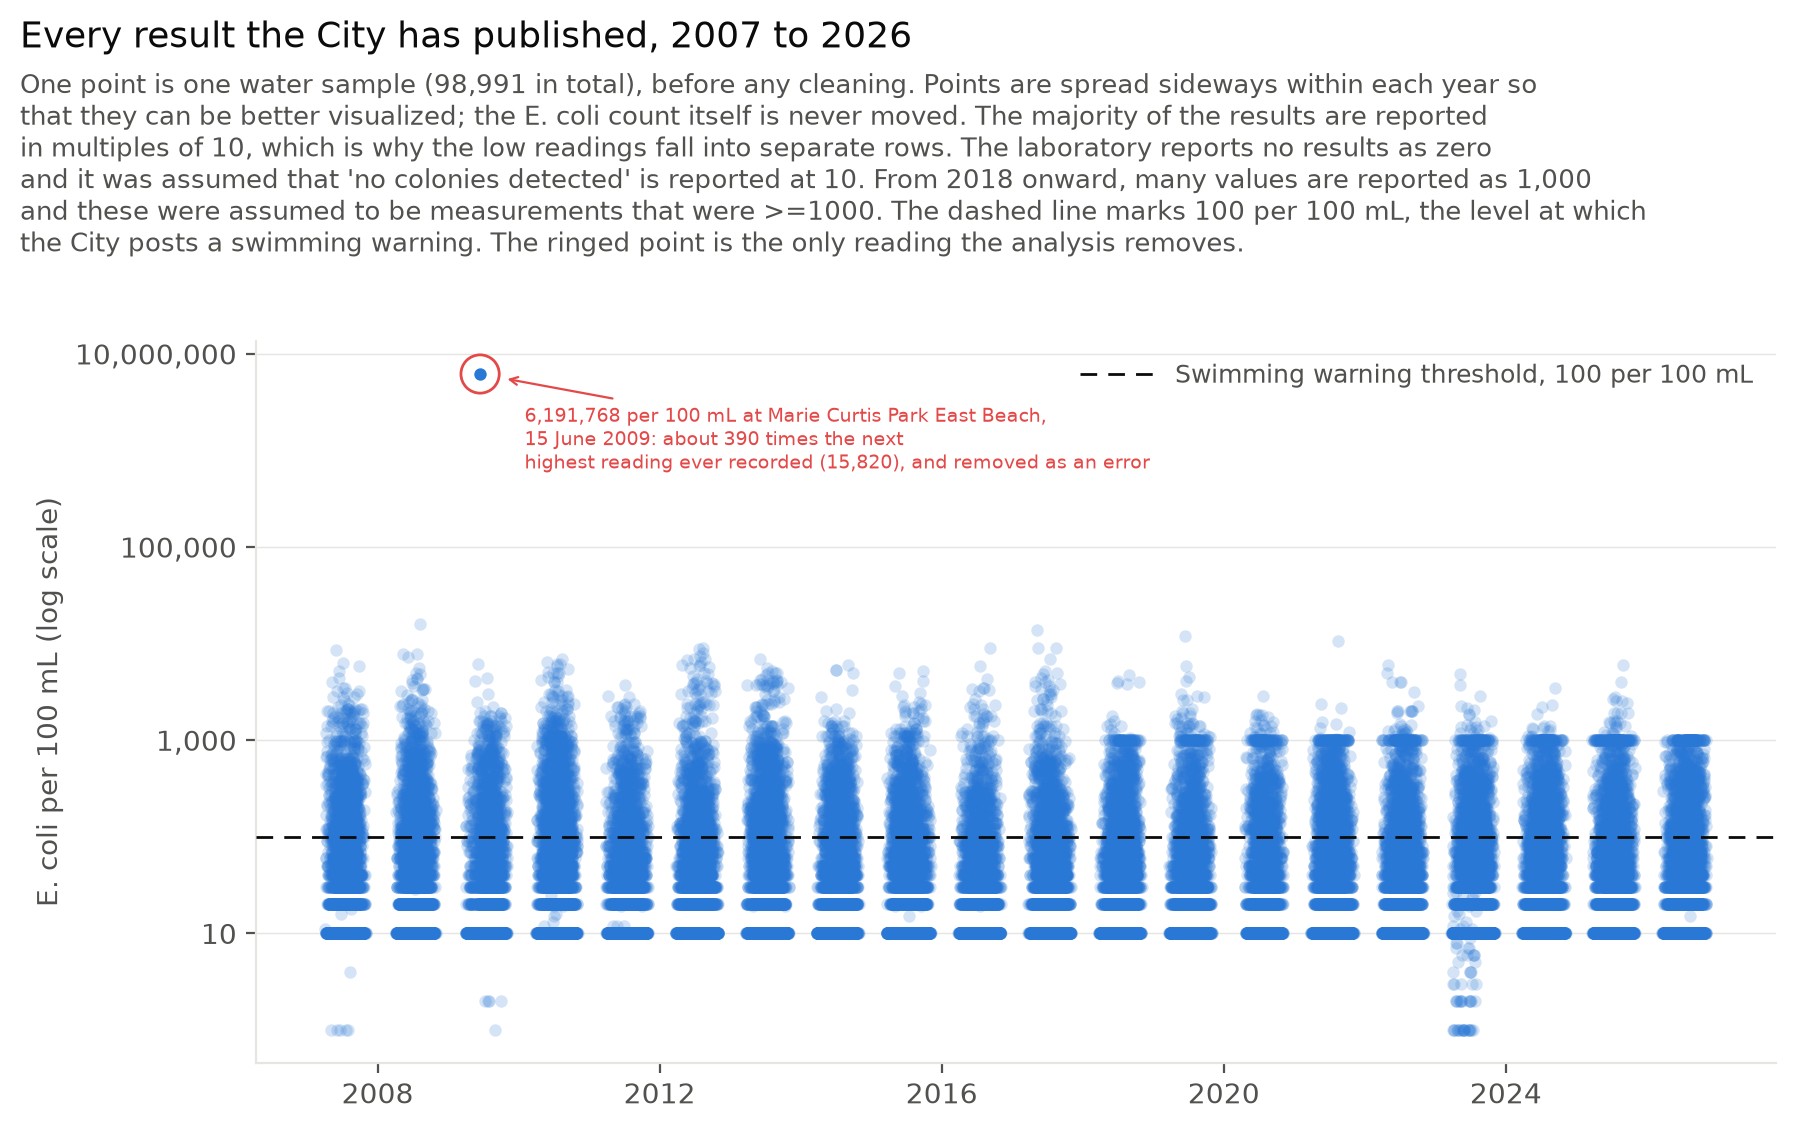
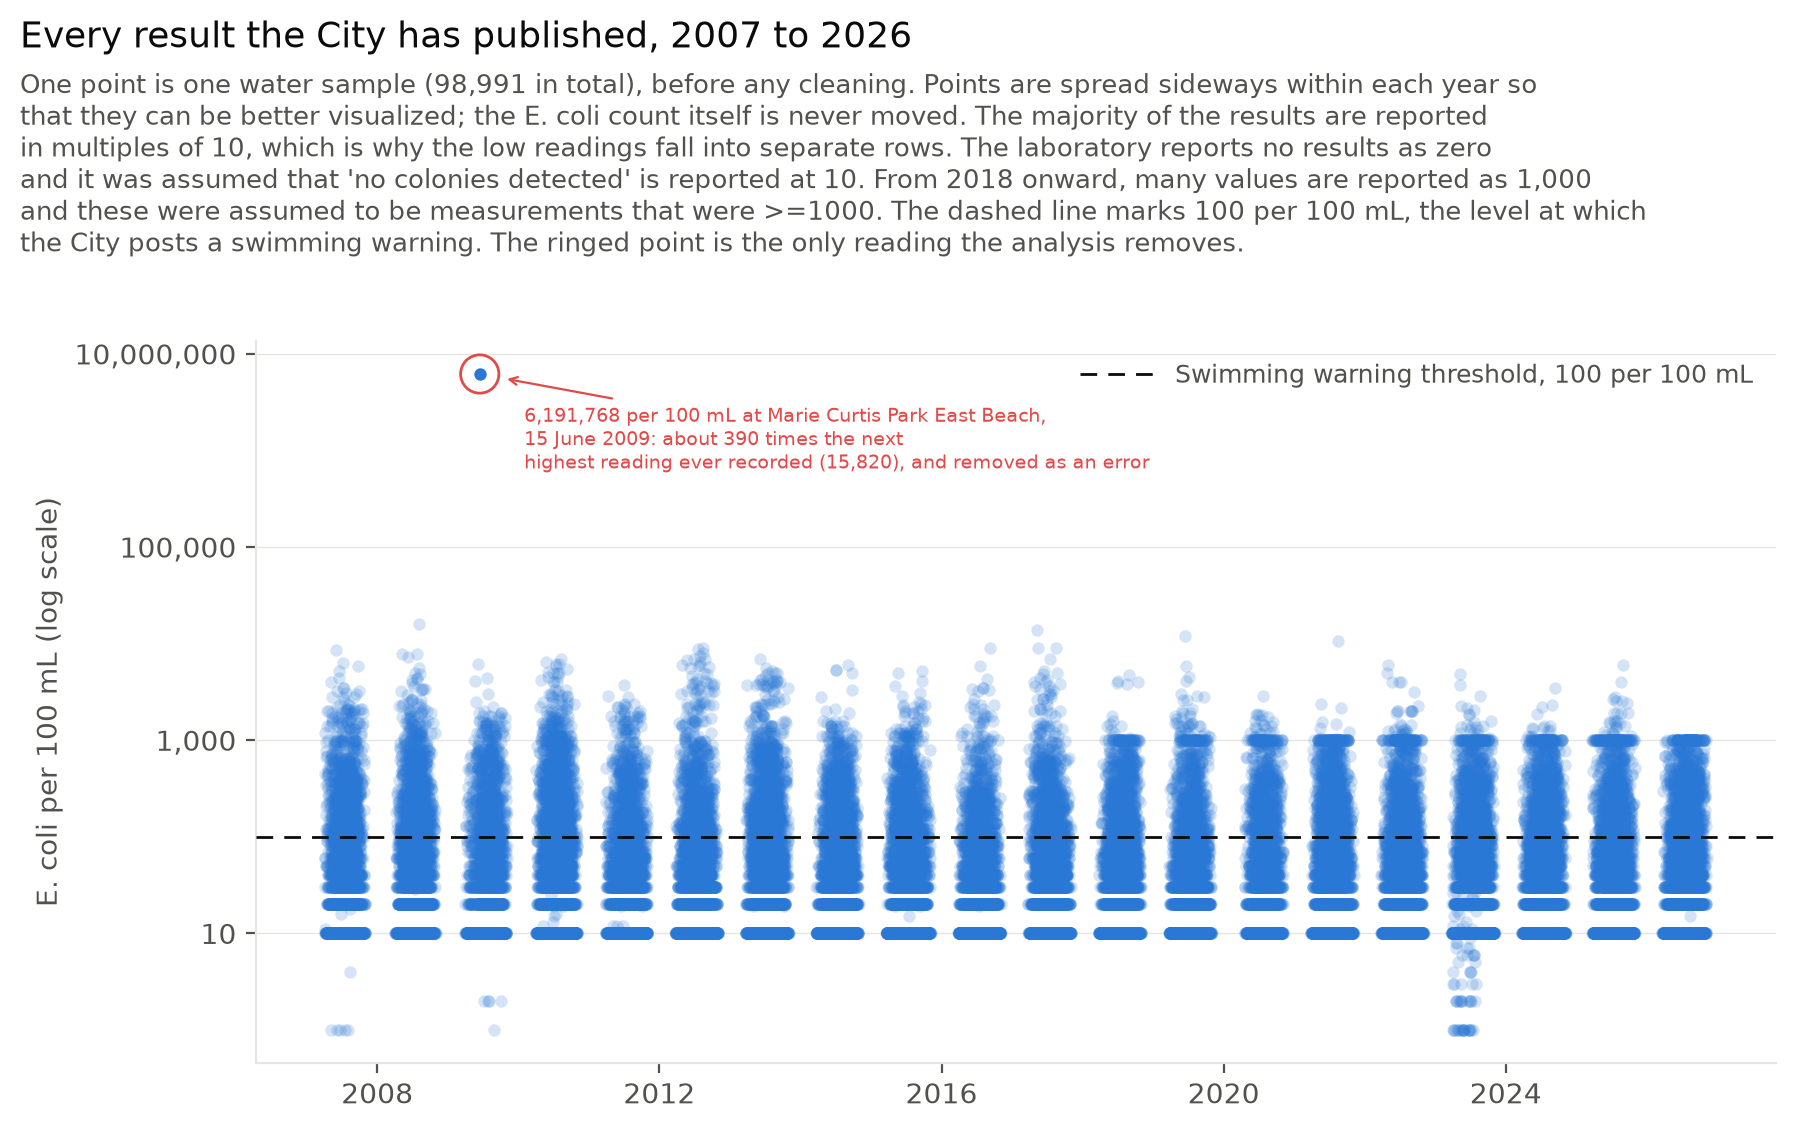
Point figures at the cleaned data and add the beach-day figure
The summary histogram now reads the analysis data rather than repeating
cleaning's exclusions. Adds a figure of every beach-day geometric mean,
the unit the limit applies to, with the axis trimmed to the reporting
floor and minor ticks so the discrete means are placeable.

Changed region(s): [[0.3432, 0.3717, 0.4368, 0.4336], [0.0936, 0.4646, 0.1248, 0.4956]]

diff --git a/scripts/05-exploratory_data_analysis.py b/scripts/05-exploratory_data_analysis.py
@@ -1,14 +1,14 @@
 #### Preamble ####
-# Purpose: Draws the two figures that show the whole dataset: every published
-# result over time, including the one that cleaning removes, and how high the
-# results get at each beach.
+# Purpose: Draws the three figures that show the whole dataset: every published
+# result over time, including the one that cleaning removes; how high the results
+# get at each beach; and every beach-day, which is the unit the analysis uses.
 # Author: Sean Murphy
 # Date: 23 September 2026
 # Contact: seandata8@gmail.com
 # License: MIT
 # Pre-requisites:
 # - `polars`, `numpy` and `matplotlib` must be installed
-# - Run `uv run scripts/02-download_data.py` first
+# - Run `uv run scripts/02-download_data.py` and `scripts/03-clean_data.py` first
 # - Run from the project root: uv run scripts/05-exploratory_data_analysis.py
 
 
@@ -24,9 +24,15 @@ import polars as pl
 from matplotlib.ticker import FixedLocator, FuncFormatter
 
 RAW_DATA_PATH = "data/01-raw_data/raw_data.csv"
+ANALYSIS_DATA_PATH = "data/02-analysis_data/analysis_data.csv"
 FIGURE_DIR = Path("other/explore/figures")
 
 WARNING_THRESHOLD = 100
+DETECTION_LIMIT = 10
+
+# The daily geometric mean needs at least four results: four, not five, so that
+# Sunnyside's four sites are included.
+MINIMUM_RESULTS = 4
 
 # Sampling is daily and results are reported in steps of ten, so points land on a
 # grid and pile up. Spreading them sideways by a few days makes the pile-ups
@@ -216,13 +222,14 @@ figure.savefig(FIGURE_DIR / "all-raw-results.png", bbox_inches="tight")
 
 
 #### Summary figure: results by order of magnitude, by beach ####
-# Every result except the one removed as an error, counted in bands of ten:
-# 1 to 10, 11 to 100, and so on. Bands rather than narrow bars because the
-# threshold sits exactly on a band edge, so the share of a beach's results above
-# 100 is the last two bars of its panel.
-# Sites 60W and GP6 are left out, as in the analysis: they cover 2026 only and sit
-# 14 to 16 km from the beaches they are listed under.
-summary_results = rest.filter(~pl.col("siteName").is_in(["60W", "GP6"]))
+# The cleaned data, so that what is drawn is exactly what the analysis uses, and
+# the exclusions live in one place rather than being repeated here.
+# Results are counted in bands of ten: 1 to 10, 11 to 100, and so on. Bands rather
+# than narrow bars because the threshold sits on a band edge, so the share of a
+# beach's results above 100 is the last two bars of its panel.
+summary_results = pl.read_csv(ANALYSIS_DATA_PATH, try_parse_dates=True).with_columns(
+    pl.col("eColi").log10().alias("logEColi")
+)
 
 # Four bands, not five: only four results in twenty years passed 10,000, so a
 # separate band for them would be an empty column in every panel.
@@ -306,10 +313,11 @@ figure.text(
     0.008,
     0.955,
     fill(
-        f"Every result the City has published ({summary_results.height:,}), with each bar"
-        " labelled by its share of that beach's results. The reading of 6,191,768 removed as an"
-        " error is left out, as are two sites added in 2026 that sit far from the beaches they"
-        " are listed under. The orange bars, right of the dashed line, are the results above 100"
+        f"Every result the analysis uses ({summary_results.height:,}), with each bar labelled by"
+        " its share of that beach's results. Cleaning leaves out the reading of 6,191,768 removed"
+        " as an error, two sites added in 2026 that sit far from the beaches they are listed"
+        " under, and dates outside the sampling season."
+        " The orange bars, right of the dashed line, are the results above 100"
         " E. coli per 100 mL, the limit the City of Toronto sets for safe swimming. Panels run"
         " from the beach with the largest share above that limit to the smallest. Each bar counts"
         " single samples rather than days: a beach is judged on the average of its five or six"
@@ -327,5 +335,136 @@ figure.supxlabel("E. coli per 100 mL", fontsize=10, color=TEXT_SECONDARY)
 figure.tight_layout(rect=(0.004, 0, 1, 0.78))
 figure.savefig(FIGURE_DIR / "results-by-magnitude.png", bbox_inches="tight")
 
-print(f"Saved two figures to {FIGURE_DIR}")
-print(f"Results plotted: {rest.height:,}")
+
+#### Day-level figure: every beach-day the analysis uses ####
+# A beach is judged on the geometric mean of its samples for the day, so this is
+# the unit the analysis works in, and the one the threshold applies to.
+daily_means = (
+    summary_results.group_by("beachName", "collectionDate")
+    .agg(
+        pl.col("logEColi").mean().alias("logGeometricMean"),
+        pl.len().alias("nResults"),
+    )
+    # Four results, not five, so that Sunnyside's four sites are included.
+    .filter(pl.col("nResults") >= MINIMUM_RESULTS)
+    .with_columns(
+        (pl.col("logGeometricMean") > np.log10(WARNING_THRESHOLD)).alias("overLimit")
+    )
+)
+
+day_order = (
+    daily_means.group_by("beachName")
+    .agg(pl.col("overLimit").mean().alias("share"))
+    .sort("share")["beachName"]
+    .to_list()
+)
+
+figure, axis = plt.subplots(figsize=(10, 6.0))
+for row, beach in enumerate(day_order):
+    beach_days = daily_means.filter(pl.col("beachName") == beach)
+    means = beach_days["logGeometricMean"].to_numpy()
+    over = beach_days["overLimit"].to_numpy()
+    height = row + rng.uniform(-0.32, 0.32, size=means.size)
+    # Days over the limit carry their own hue. Position relative to the line says
+    # the same thing, so colour is not doing the work alone.
+    for selected, colour, opacity in (
+        (~over, DATA_COLOUR, 0.22),
+        (over, ABOVE_THRESHOLD_COLOUR, 0.4),
+    ):
+        axis.scatter(
+            means[selected],
+            height[selected],
+            s=10,
+            alpha=opacity,
+            color=colour,
+            linewidths=0,
+            rasterized=True,
+        )
+    axis.text(
+        1.005,
+        row,
+        f"{over.mean():.0%}",
+        transform=axis.get_yaxis_transform(),
+        va="center",
+        fontsize=9,
+        color=ABOVE_THRESHOLD_COLOUR,
+    )
+
+axis.axvline(
+    np.log10(WARNING_THRESHOLD),
+    color=TEXT_PRIMARY,
+    linewidth=1,
+    linestyle=(0, (6, 4)),
+    zorder=3,
+)
+axis.xaxis.set_major_locator(FixedLocator(np.log10([10, 100, 1_000])))
+axis.xaxis.set_major_formatter(count_formatter)
+# Minor ticks inside each decade, so that the discrete values a geometric mean of
+# five multiples of ten can take are placeable by eye.
+axis.xaxis.set_minor_locator(
+    FixedLocator(np.log10([20, 30, 50, 200, 300, 500, 2_000, 3_000]))
+)
+axis.xaxis.set_minor_formatter(count_formatter)
+axis.tick_params(axis="x", which="minor", labelsize=7.5)
+
+# The 17 days whose geometric mean falls below the reporting floor stretch the
+# axis down to about 2 and squeeze everything else into the right two thirds. The
+# axis starts just under the floor instead, and the caption says how many days
+# that leaves out.
+below_floor = daily_means.filter(
+    pl.col("logGeometricMean") < np.log10(DETECTION_LIMIT)
+).height
+axis.set_xlim(np.log10(9), daily_means["logGeometricMean"].max() + 0.05)
+axis.set_yticks(range(len(day_order)))
+axis.set_yticklabels(day_order, fontsize=10, color=TEXT_PRIMARY)
+axis.set_ylim(-0.7, len(day_order) - 0.3)
+axis.grid(axis="x", color=GRID_COLOUR, linewidth=0.5)
+axis.set_axisbelow(True)
+axis.tick_params(axis="y", length=0)
+axis.text(
+    1.005,
+    len(day_order) - 0.4,
+    "Share of days\nover the limit",
+    transform=axis.get_yaxis_transform(),
+    va="bottom",
+    fontsize=9,
+    color=TEXT_SECONDARY,
+)
+
+figure.text(
+    0.008,
+    1.0,
+    "Every beach-day, by beach",
+    ha="left",
+    va="top",
+    fontsize=13,
+    color=TEXT_PRIMARY,
+)
+figure.text(
+    0.008,
+    0.955,
+    fill(
+        "One point is the geometric mean of a beach's samples on one day, the figure the City's"
+        f" limit applies to ({daily_means.height:,} days in total). Days with fewer than four"
+        " results are left out. Points are spread vertically so that they can be counted; the"
+        " value itself is never moved. Orange points, right of the dashed line, are the days"
+        " above 100 E. coli per 100 mL. Half of all samples are reported at 10, the lowest the"
+        " laboratory measures, so the column at 10 is the days on which every sample was at that"
+        " floor, and the stripes just above it are the values a geometric mean of four to six"
+        f" multiples of ten can take. The {below_floor} days whose mean falls below 10 are off"
+        " the left of the axis.",
+        width=CAPTION_WIDTH,
+    ),
+    ha="left",
+    va="top",
+    fontsize=9.5,
+    color=TEXT_SECONDARY,
+)
+axis.set_xlabel("E. coli per 100 mL (log scale)", fontsize=10, color=TEXT_SECONDARY)
+figure.tight_layout(rect=(0, 0, 1, 0.84))
+figure.savefig(FIGURE_DIR / "all-beach-days.png", bbox_inches="tight")
+
+print(f"Saved three figures to {FIGURE_DIR}")
+print(f"Raw results plotted: {rest.height:,}")
+print(f"Cleaned results plotted: {summary_results.height:,}")
+print(f"Beach-days plotted: {daily_means.height:,}")
